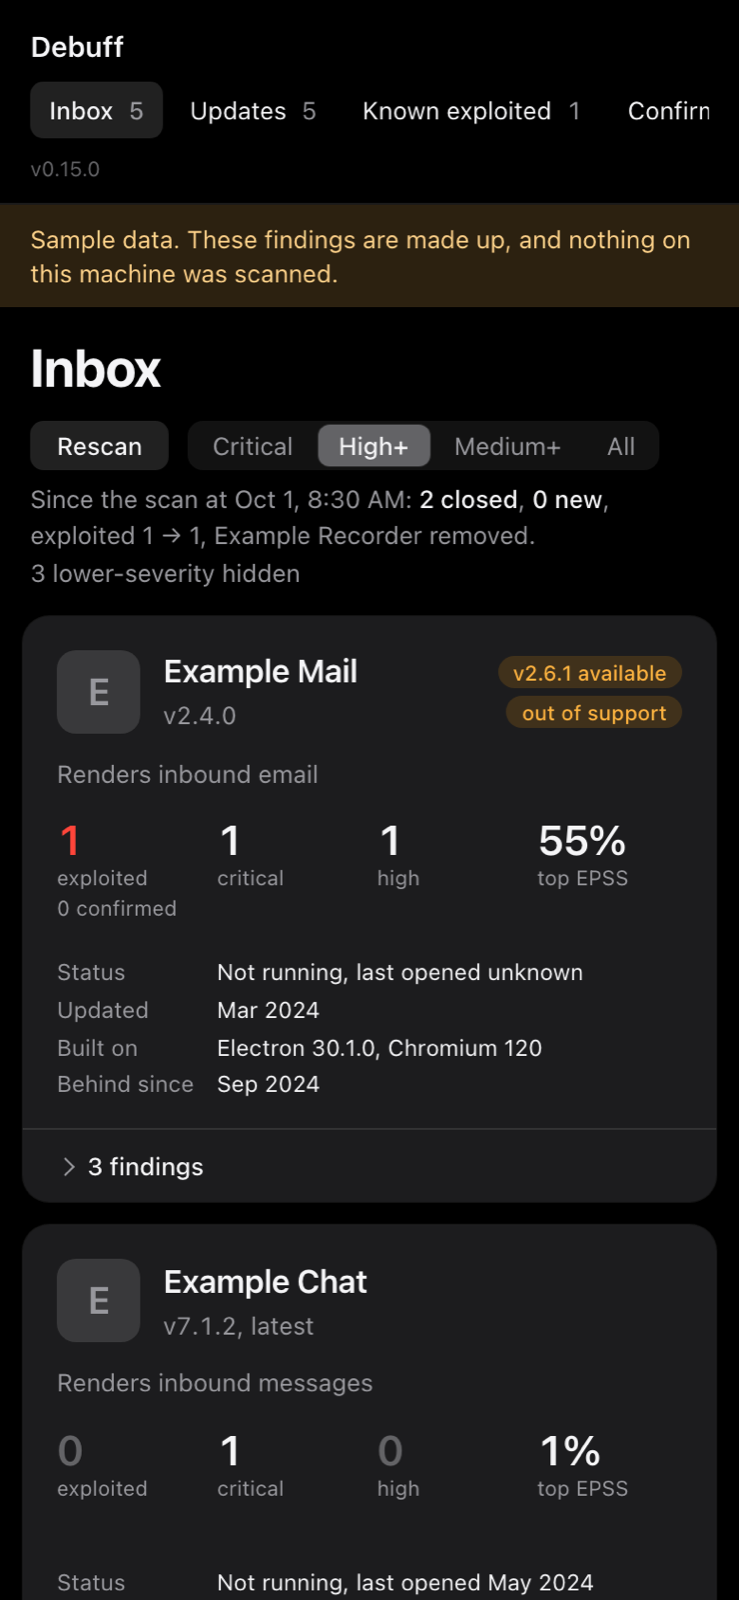
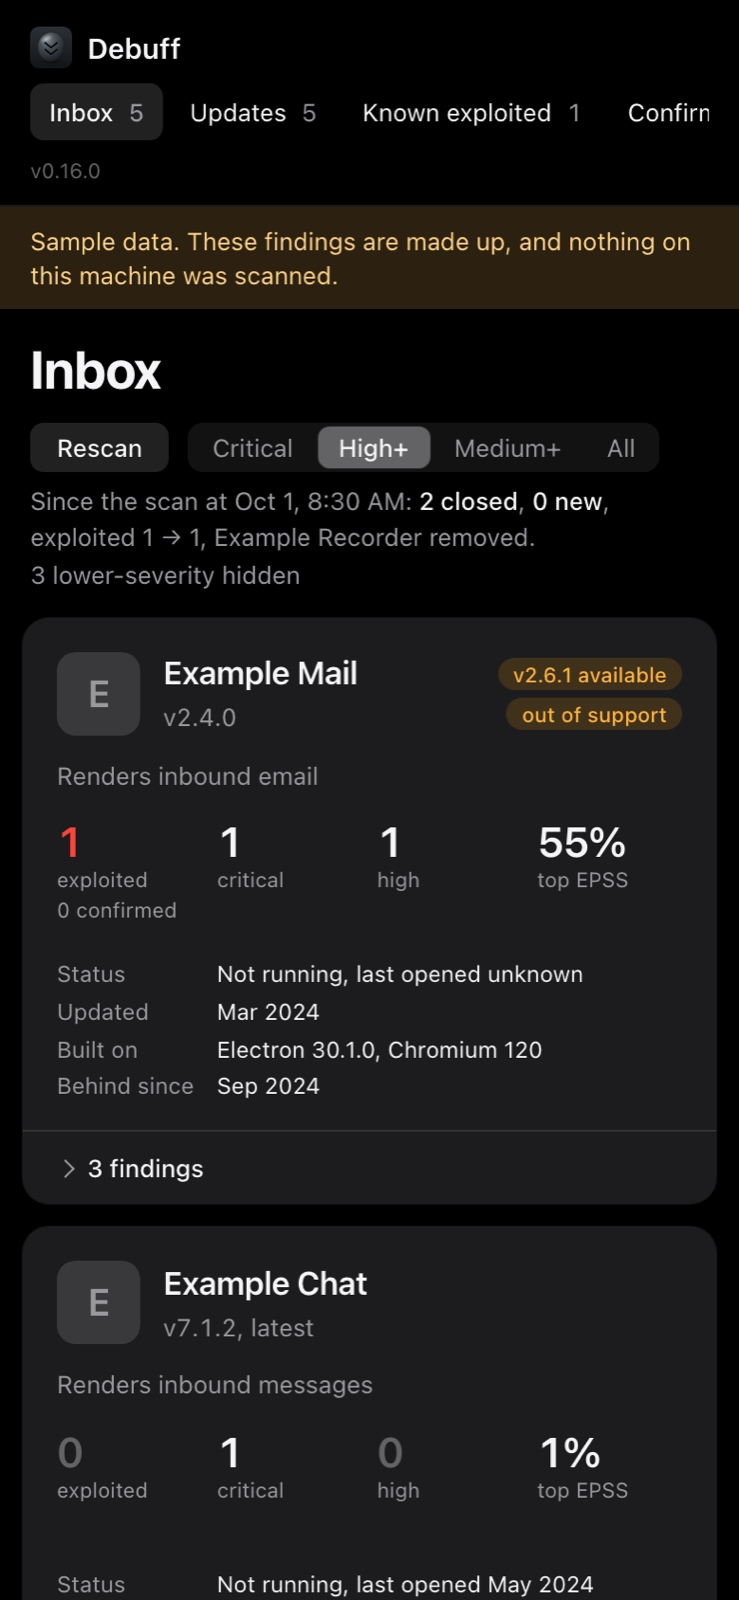
v0.16.0
### Added
- An icon: a polished dark stone carved with a falling mark, on a slate tile. It is the page's favicon, sits beside
  the name in the side panel, and heads the README. Like every page asset it needs the sign-in.
- CI on every push and pull request: format, vet, lint, race tests, fuzzing, a reproducible build and an outside
  probe of the built server on macOS; `govulncheck` and `osv-scanner` in their strict modes; a Trivy scan for secrets
  and misconfiguration; CodeQL; and Dependabot for the toolchain line and the workflows.

diff --git a/internal/server/web/style.css b/internal/server/web/style.css
@@ -21,7 +21,8 @@ a { color: inherit; }
 .shell { display: grid; grid-template-columns: 200px minmax(0, 1fr); height: 100vh; }
 
 .side { display: flex; flex-direction: column; gap: 20px; padding: 24px 12px 16px; border-right: 0.5px solid var(--hairline); }
-.side h1 { margin: 0; padding: 0 10px; font-size: 15px; font-weight: 600; }
+.side h1 { display: flex; align-items: center; gap: 8px; margin: 0; padding: 0 10px; font-size: 15px; font-weight: 600; }
+.side h1::before { content: ""; width: 22px; height: 22px; flex: none; background: url(/icon.svg) center / contain no-repeat; }
 .side ul { flex: 1; margin: 0; padding: 0; list-style: none; }
 .side a { display: flex; justify-content: space-between; gap: 8px; padding: 6px 10px; border-radius: 7px; text-decoration: none; }
 .side a:hover { background: var(--fill); }

diff --git a/internal/server/web/index.html b/internal/server/web/index.html
@@ -6,6 +6,7 @@
 <meta name="color-scheme" content="light dark">
 <title>{{.Title}} · Debuff</title>
 {{if or .Scanning .Upgrading}}<meta http-equiv="refresh" content="3">{{end}}
+<link rel="icon" type="image/svg+xml" href="/icon.svg">
 <link rel="stylesheet" href="/style.css">
 </head>
 <body>

diff --git a/internal/server/server.go b/internal/server/server.go
@@ -30,7 +30,7 @@ import (
 	"github.com/thwomp-io/debuff/internal/version"
 )
 
-//go:embed web/index.html web/style.css
+//go:embed web/index.html web/style.css web/icon.svg
 var web embed.FS
 
 const csp = "default-src 'none'; style-src 'self'; img-src 'self'; base-uri 'none'; form-action 'self'; frame-ancestors 'none'"
@@ -173,6 +173,16 @@ func Handler(port string, info version.Info, opt Options) http.Handler {
 			return
 		}
 		w.Header().Set("Content-Type", "text/css; charset=utf-8")
+		_, _ = w.Write(b)
+	})
+	mux.HandleFunc("GET /icon.svg", func(w http.ResponseWriter, _ *http.Request) {
+		b, err := web.ReadFile("web/icon.svg")
+		if err != nil {
+			http.Error(w, "missing asset", http.StatusInternalServerError)
+			return
+		}
+		w.Header().Set("Content-Type", "image/svg+xml")
+		w.Header().Set("Cache-Control", "public, max-age=86400")
 		_, _ = w.Write(b)
 	})
 	if opt.Icons != "" {

diff --git a/internal/server/server_test.go b/internal/server/server_test.go
@@ -437,3 +437,14 @@ func FuzzHostAllowed(f *testing.F) {
 		}
 	})
 }
+
+func TestIconIsServedAsSVG(t *testing.T) {
+	rec := request(t, "/icon.svg", "127.0.0.1:8737", "")
+	if rec.Code != http.StatusOK || rec.Header().Get("Content-Type") != "image/svg+xml" || !strings.HasPrefix(rec.Body.String(), "<svg") {
+		t.Fatalf("icon: %d %q", rec.Code, rec.Header().Get("Content-Type"))
+	}
+	// An SVG can carry script; the policy on every response is what keeps one inert.
+	if !strings.Contains(rec.Header().Get("Content-Security-Policy"), "default-src 'none'") {
+		t.Fatal("the icon went out without the content policy")
+	}
+}

diff --git a/CHANGELOG.md b/CHANGELOG.md
@@ -4,6 +4,15 @@ All notable changes, [Keep a Changelog](https://keepachangelog.com/) style, SemV
 
 ## [Unreleased]
 
+## [0.16.0] — 2026-11-09
+
+### Added
+- An icon: a polished dark stone carved with a falling mark, on a slate tile. It is the page's favicon, sits beside
+  the name in the side panel, and heads the README. Like every page asset it needs the sign-in.
+- CI on every push and pull request: format, vet, lint, race tests, fuzzing, a reproducible build and an outside
+  probe of the built server on macOS; `govulncheck` and `osv-scanner` in their strict modes; a Trivy scan for secrets
+  and misconfiguration; CodeQL; and Dependabot for the toolchain line and the workflows.
+
 ## [0.15.0] — 2026-11-09
 
 ### Added

diff --git a/README.md b/README.md
@@ -1,3 +1,5 @@
+<img src="docs/assets/icon.svg" alt="" width="96" align="right">
+
 # Debuff
 
 A morning check of your own Mac's vulnerability exposure, opened in a browser tab like a mailbox. Each app
